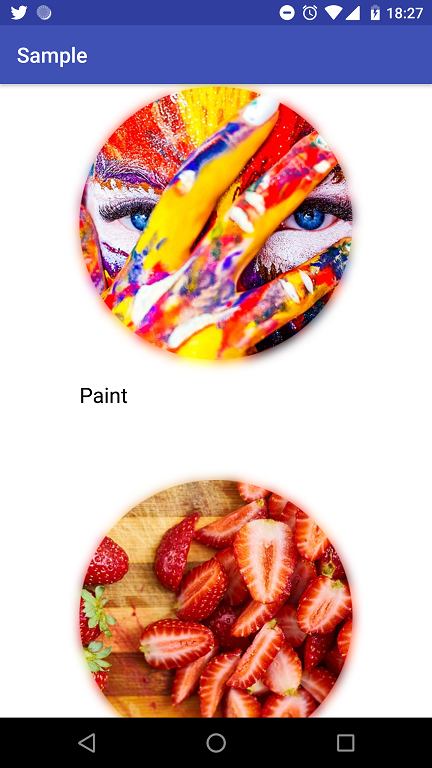
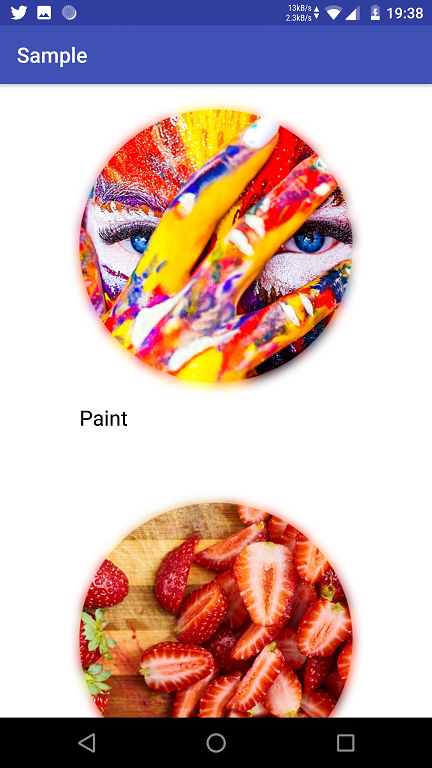
Added screenshots

diff --git a/app/src/main/java/io/github/armcha/sample/ImageAdapter.kt b/app/src/main/java/io/github/armcha/sample/ImageAdapter.kt
@@ -37,6 +37,7 @@ class ImageAdapter : RecyclerView.Adapter<ImageAdapter.ViewHolder>() {
         private val text by lazy { itemView.findViewById<TextView>(R.id.text) }
 
         fun bind(item: Item) {
+            shadowView.radiusOffset = 0.6f
             shadowView.setImageResource(R.drawable.place_holder, withShadow = false)
             text.text = item.name
             GlideApp.with(itemView.context)

diff --git a/README.md b/README.md
@@ -2,5 +2,8 @@
 
 ## Library coming soon
 
-![](screenShots/recycler.png)
+![](screenShots/video.png)
+![](screenShots/firstScreen.png)
+![](screenShots/secondScreen.png)
+![](screenShots/circle.png)
 ![](screenShots/vector.png)
